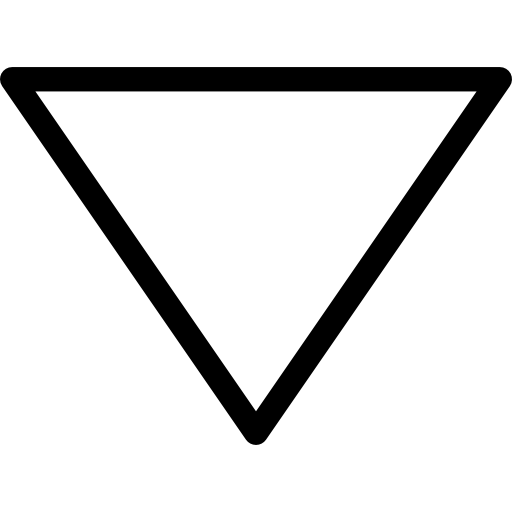
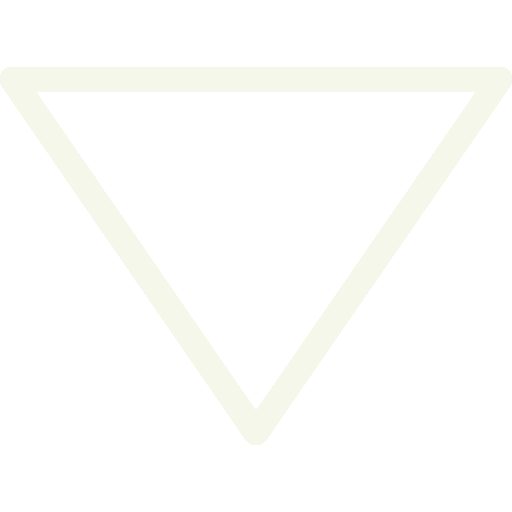
pic bianche

Changed region(s): [[0.0, 0.125, 1.0, 0.875]]

diff --git a/side-menu.html b/side-menu.html
@@ -28,6 +28,7 @@
                 </li>
             </ul>
         </nav>
+
         <nav class="navbar-tab">
               <span class="nav-left">
                 <ul>
@@ -44,8 +45,24 @@
                         <a href="#"><img class="n-tab-icon" src="res/menu.png" /></a>
                     </li>
                 </ul>
-              </span>
-            </nav>
+            </span>
+        </nav>
+
+        <aside class="sidebar">
+            <ul>
+                <span><li>
+                    <a href="#"><img class="logo-menu" src="res/photo.png"></a>
+                    <h2 class="username">User123</h2>
+                </li></span>
+                <span style="margin: 40px 0 180px 0;">
+                    <li><a href="#">New chat</a></li>
+                    <li><a href="#">Favourites</a></li>
+                    <li><a href="#">Edit profile</a></li>
+                </span>
+                <li><a href="#">Logout</a></li>
+            </ul>
+        </aside>
+
         <div class="content">
             
             <input class="search-tablet" placeholder="search" />
@@ -153,23 +170,9 @@
                             <span class="c-notify">99+</span>
                         </h2>
                     </div>
-                </article>
-                <div class="prefs-bar">
-                    <ul>
-                        <li><img class="p-icon" src="res/star.png" /></li>
-                        <li><img class="p-icon" src="res/photo.png" /></li>
-                        <li><img class="p-icon" src="res/photo.png" /></li>
-                        <li><img class="p-icon" src="res/photo.png" /></li>
-                        <li><img class="p-icon" src="res/photo.png" /></li>
-                        <li><img class="p-icon" src="res/up.png" /></li>
-                    </ul>
-                </div>               
+                </article>               
             </section>
-            
             <section class="side-tablet">
-                <h2 class="welcome">
-                    Select a chat to begin
-                </h2>
 
             </section>
         </div>

diff --git a/style.css b/style.css
@@ -348,6 +348,7 @@ a {
   padding-top: 10px;
   width:97%;
   margin: auto;
+  margin-bottom: 45px;
 }
 
 
@@ -503,6 +504,49 @@ a {
    padding-top:15px;
  }
 
+
+.logo-menu {
+  padding: 5px;
+  border: 2px black solid;
+  border-radius: 10px;
+  height: 150px;
+  width: 150px;
+}
+
+
+.sidebar {
+  width: 302px;
+  height: 100vh;
+  background-color: rgb(246, 247, 235);
+  z-index: 100;
+  position: fixed;
+  display: flex;
+  flex-direction: column;
+  align-items: center;
+  justify-content: center;
+}
+
+.sidebar ul {
+  display: flex;
+  flex-direction: column;
+  align-items: flex-start;
+  list-style-type: none;
+  height: 80vh;
+  width: 80%;
+}
+
+.username {
+    font-size: 1.2em;
+    text-align: center;
+}
+
+.sidebar ul li {
+  margin-top: 18px;
+}
+
+.sidebar ul li a {
+  text-decoration: none;
+}
 
 
 
